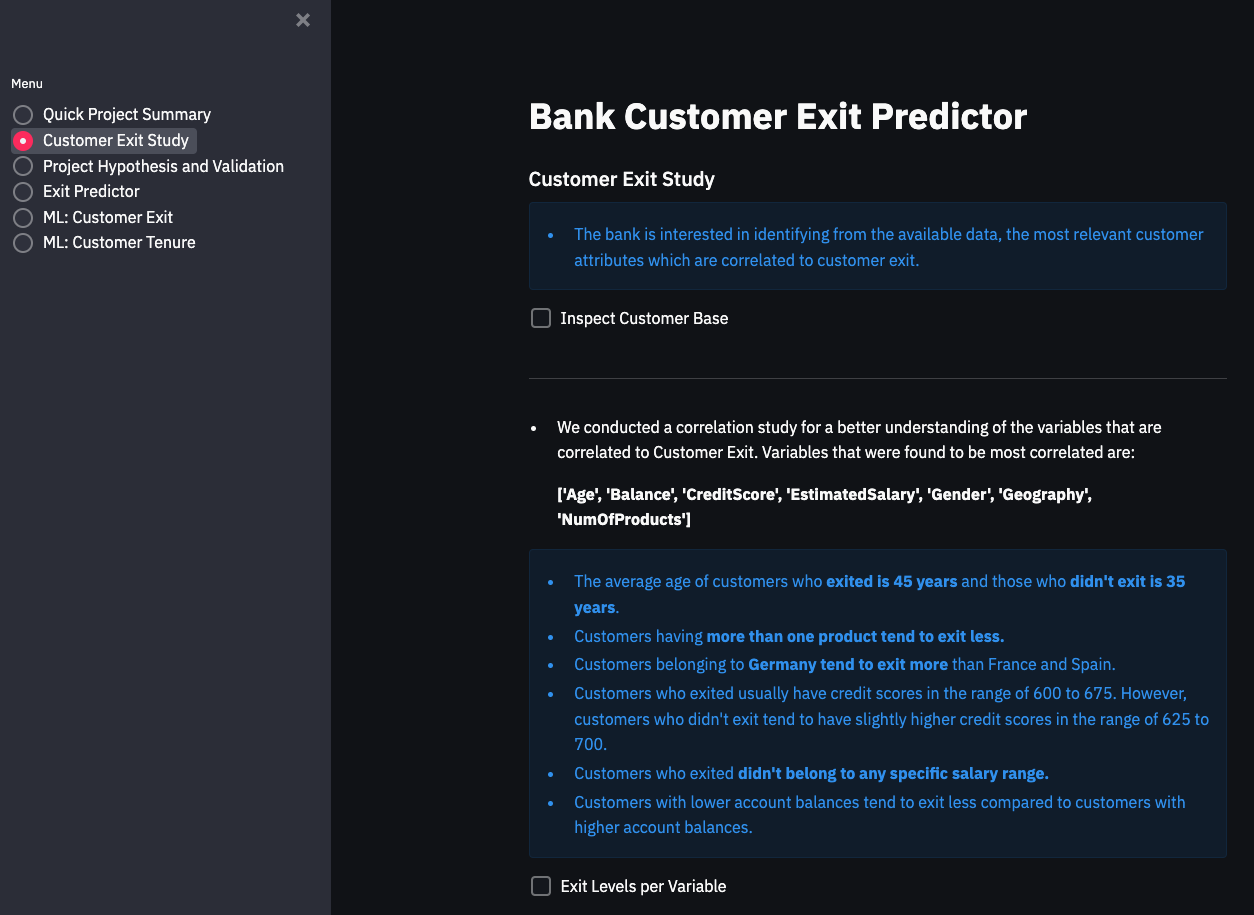
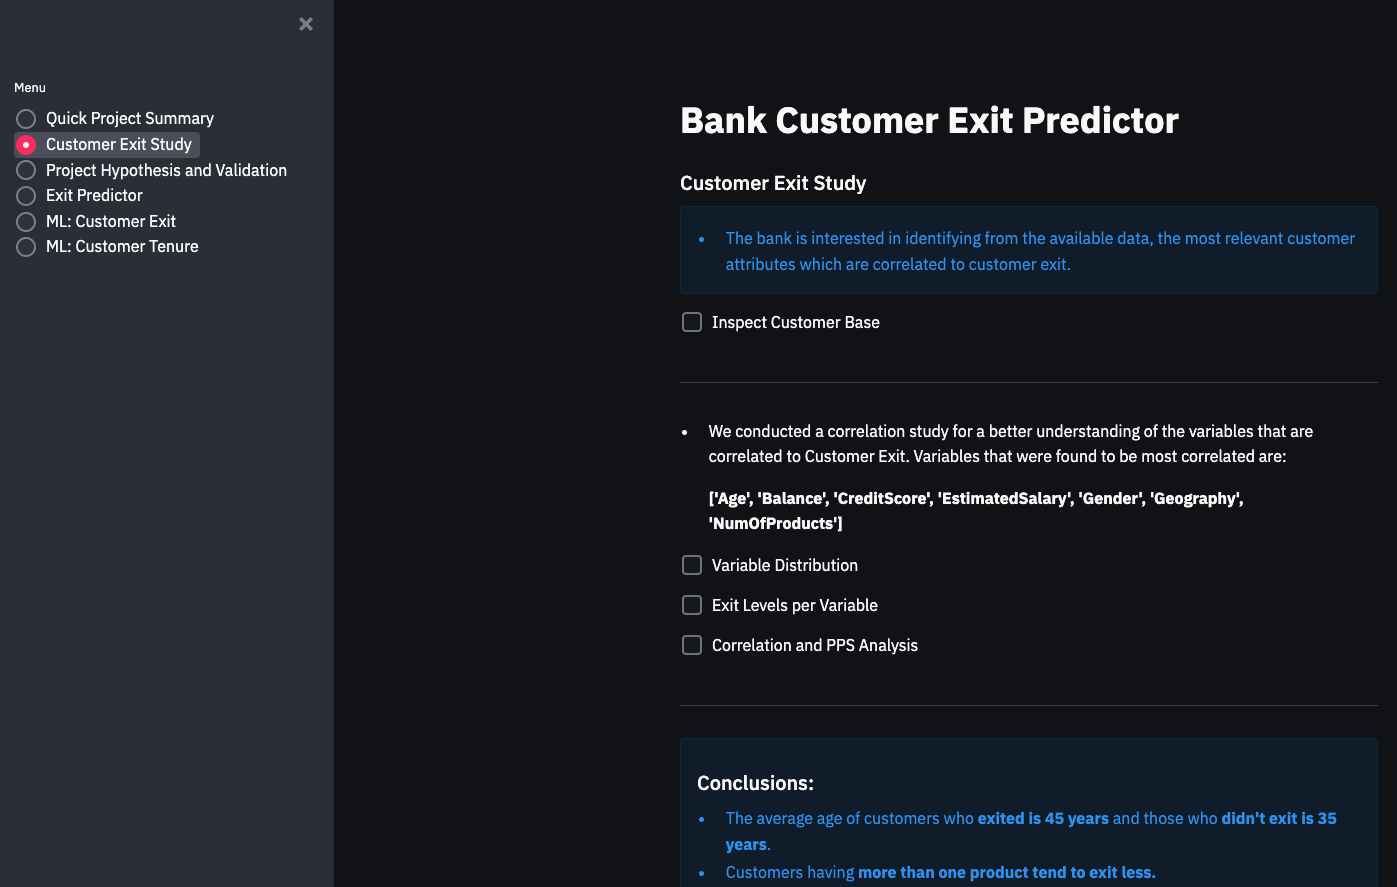
Add streamlit page2 image and details in readme.md

diff --git a/README.md b/README.md
@@ -146,7 +146,13 @@ As a Data Analyst at Best Bank (a multinational bank), you have been requested t
 - The training data to fit the model is provided by the bank. This dataset contains about 10 thousand customer records.
   - Train data - target: Exited; features: all other variables, but CustomerID, Tenure, Surname, and RowNumber.
 
-#### Model Performance
+##### Hyperparameter Optimisation
+
+1. Adaboost Classsifier
+
+2. Gradient Boost Classifier
+
+#### Model Performance Report
 ![exit-performance](documentation/exit-performance.png)
 
 ### **Predict Tenure**
@@ -180,7 +186,7 @@ As a Data Analyst at Best Bank (a multinational bank), you have been requested t
 - The training data to fit the model is provided by the bank. This dataset contains about 10 thousand customer records.
   - Train data - filter data where Exited == 1, then drop the Exited variable. Target: tenure; features: all other variables, but CustomerID, Surname, and RowNumber
 
-#### Model Performance
+#### Model Performance Report
 ![tenure-performance-train](documentation/tenure-performance-train.png)
 ![tenure-performance-test](documentation/tenure-performance-test.png)
 
@@ -203,6 +209,8 @@ As a Data Analyst at Best Bank (a multinational bank), you have been requested t
 - A checkbox : for displaying the number of rows and columns in the data and displaying the first ten rows of data
 - Display the most correlated variables to Exit and conclusions
 - A checkbox : for displaying the individual plots showing the customer exit levels for each correlated variable
+- A checkbox : for displaying the individual variable distribution
+- A checkbox : for displaying the correlation and PPS analysis of variables
 
 ![page2](documentation/page2.png)
 
@@ -300,8 +308,10 @@ Link : [Project Board](https://github.com/users/AbhilashAynipully/projects/4)
 - All the sections and content are being loaded and displayed.
 - On clicking 'Inspect Customer Base' the top ten rows are being displayed from the database.
 - The most correlated variables are displayed in bold.
+- On clicking 'Variable Distribution', plots are being displayed. 
+- On clicking 'Exit Levels per Variable', plots are being displayed.
+- On clicking 'Correlation and PPS Analysis', plots are being displayed.
 - The conclusions from the correlation study are displayed in blue color.
-- On clicking exit levels per variable plots display each variable against exit is being displayed.
 
 #### Page 3 : Project Hypothesis and Validation
 
@@ -336,6 +346,7 @@ Link : [Project Board](https://github.com/users/AbhilashAynipully/projects/4)
 - ML pipelines designed to predict tenure are being displayed. 
 - Feature importance plot with the most important variables is being displayed.
 - Pipeline performance for both 'Train' and 'Test' data is being displayed.
+
 
 ### Bugs
 
